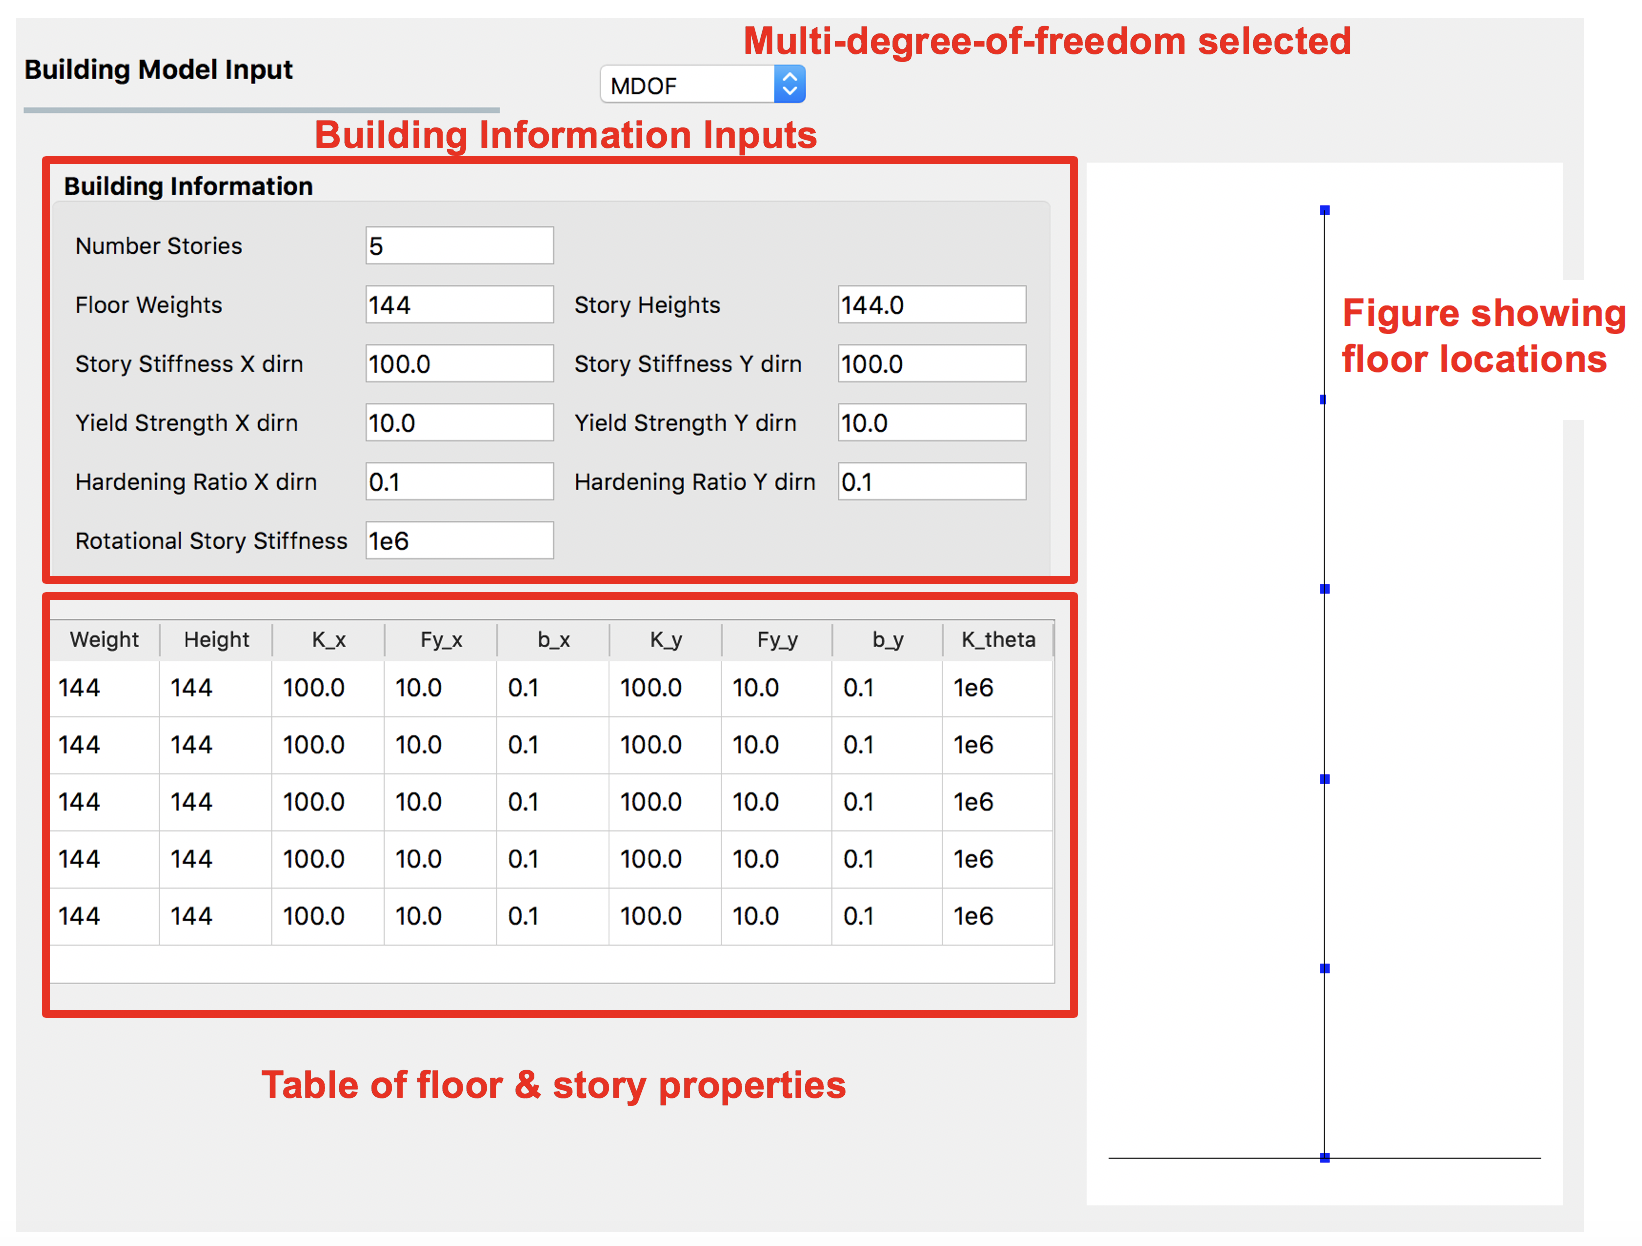
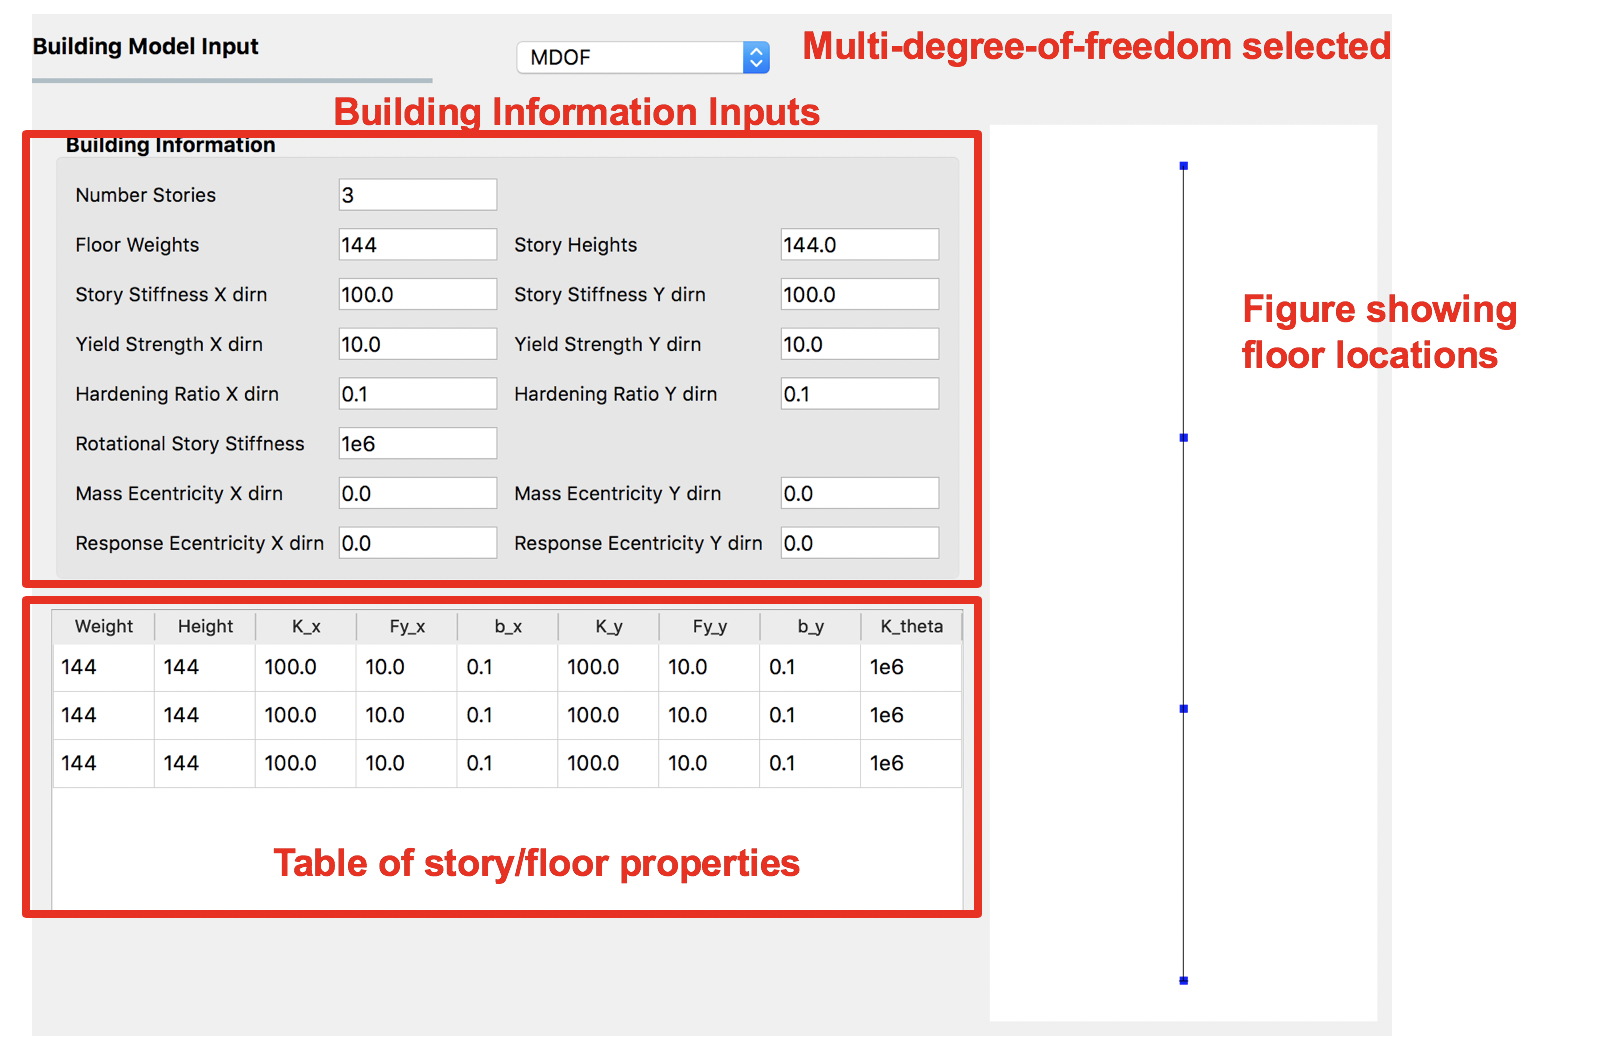
fmk updating figures for new UI, updating some wind event files, breaking up quoFEM into modeles used in other docs

diff --git a/Common/usage/uq_forwardPropogationMethods.tex b/Common/usage/uq_forwardPropogationMethods.tex
@@ -1,0 +1,76 @@
+In the forward propagation problem, the user selects the sampling 
+method to use from the dropdown menu \href{https://dakota.sandia.gov//sites/default/files/docs/6.9/html-ref/method-sampling.html}{sampling methods}. Currently there are five options available: 
+Monte Carlo Sampling (MCS),  Latin Hypercube Sampling (LHS), Importance Sampling (IS), and sampling based on surrogate models, including Gaussian Process Regression (GPR) and Polynomial Chaos Expansion (PCE). Depending on the option selected, the user must specifies the appropriate input parameters for each. For instance, for MCS, the number of samples specifies the number of simulations to be performed, and providing a random seed allows the user to reproduce the same set of samples from the random variables multiple times.
+
+\begin{figure}[!htbp]
+  \centering {
+    \includegraphics[width=1.0\textwidth]
+    {examples/fig_quofem/fw_mc.png} }
+  \caption{Monte Carlo Sampling input panel}
+  \label{fig:mcs}
+\end{figure}
+
+Figure \Cref{fig:mcs} shows the input panel corresponding to the Monte Carlo Sampling (MCS) setting. Two input parameters need to be specified, the number of samples to be executed, as well as the seed used in generating the random samples. 
+
+
+\begin{figure}[!htbp]
+  \centering {
+    \includegraphics[width=1.0\textwidth]
+    {examples/fig_quofem/fw_lhs.png} }
+  \caption{Latin Hypercube Sampling input panel}
+  \label{fig:lhs}
+\end{figure}
+
+Figure \Cref{fig:lhs} shows the input panel corresponding to the Latin Hypercube Sampling (LHS) scheme. Two input parameters also need to be specified, the number of samples to be executed, as well as the seed used in generating the LHS samples. 
+
+\begin{figure}[!htbp]
+  \centering {
+    \includegraphics[width=1.0\textwidth]
+    {examples/fig_quofem/fw_is.png} }
+  \caption{Importance Sampling input panel}
+  \label{fig:is}
+\end{figure}
+
+For rare event analysis, Figure \Cref{fig:is} shows the input panel for Importance Sampling (IS) scheme. Similar to MCS and LHS, the IS requires both the number of samples to be executed and the corresponding seed for generating such random samples. In addition, the Importance Sampling algorithm can performed via three different approaches, as specified by the third input method. The latter includes Basic Sampling, Adaptive Sampling, and Multimodal Adaptive Sampling. 
+
+
+For uncertainty propagation with surrogates, two popular surrogates are available, namely Gaussian Process Regression (GPR) and Polynomial Chaos Expansion (PCE). Figure \Cref{fig:gpr} shows the input panel for the GPR model, with input panels for training and sampling. 
+
+\begin{figure}[!htbp]
+  \centering {
+    \includegraphics[width=1.0\textwidth]
+    {examples/fig_quofem/fw_gp.png} }
+  \caption{GPR forward propagation input panel}
+  \label{fig:gpr}
+\end{figure}
+
+For uncertainty propagation with Gaussian Process Regression (GPR), Figure \Cref{fig:gpr} shows the input panel for the PCE model, with input panels for training and sampling as well. The first set of input parameters in the surrogate training data specify the dataset used for training the surrogate model, while the second set of input parameters in the surrogate sampling data relate to the dataset used for sampling the surrogate. Care must be taken in specifying the training dataset to results in an accurate response surface approximation. 
+
+\begin{figure}[!htbp]
+  \centering {
+    \includegraphics[width=1.0\textwidth]
+    {examples/fig_quofem/fw_pce.png} }
+  \caption{PCE forward propagation input panel}
+  \label{fig:pce}
+\end{figure}
+
+For uncertainty propagation with Polynomial Chaos Expansion (PCE), Figure \Cref{fig:pce} shows the input panel for the PCE model, with input panels for training and sampling as well, similar to the input GPR panel. The first set of input parameters in the surrogate training data specify the dataset used for training the surrogate model, while the second set of input parameters in the surrogate sampling data relate to the dataset used for sampling the surrogate. Extreme care must be taken in specifying the parameters of the training dataset to results in an accurate response surface approximation. 
+
+If you are not sure about the training parameters of the surrogates, please refrain from using the surrogates for forward propagation and use instead conventional sampling such as MCS and LHS as discussed above. 
+
+\subsection{Reliability Analysis}
+
+For reliability analysis, figure \Cref{fig:rel} shows the input panel for the reliability capabilities. Currently, both First-Order Reliability Methods (FORM) and Second-Order Reliability Methods (SORM) are supported. The user can specify the local or global solution in the Reliability Scheme input parameter. In addition, the user needs to specify the method for searching for the Most Probable Point (MPP); if not sure, do not use any MPP approximation. 
+
+For both first and second-order reliability analysis, the user needs to specify the either the response levels or the probability levels at which the CDF of the QoI needs to be queried. The user can specify multiple query points, separated by a space. 
+
+
+\begin{figure}[!htbp]
+  \centering {
+    \includegraphics[width=1.0\textwidth]
+    {examples/fig_quofem/rel_form.png} }
+  \caption{Reliability input panel}
+  \label{fig:rel}
+\end{figure}
+
+

diff --git a/Common/usage/structural_models.tex b/Common/usage/structural_models.tex
@@ -19,7 +19,7 @@ This panel is provided for users to quickly create simple shear models
 of a building. The panel, as shown in \Cref{fig:mdof} is divided
 into 3 frames:
 \begin{enumerate}
-\item The top left frame allows the user to specify the number of stories and properties that are constant for every floor and story in the building. The following properties are available: floor weight, story height, torsional stiffness, initial stiffness, yield strength, and hardening ratio for each direction in each story. Here, the one and two directions are orthogonal $x$ and $y$ axes in plan view.
+\item The top left frame allows the user to specify the number of stories and properties that are constant for every floor and story in the building. The following properties are available: floor weight, story height, torsional stiffness, initial stiffness, yield strength, and hardening ratio for each direction in each story. The user has the option of specifying values for eccentricty of mass in x and y directions, and eccentricities for the location of the response quantaties. Here, the one and two directions are orthogonal $x$ and $y$ axes in plan view.
 \item The lower left frame allows the user to override the structural parameters above for individual floors and stories.
 \item The frame on the right is a graphical widget showing the current building. When entering data into the lower left frame, the stories corresponding to the data being modified are highlighted in red.
 \end{enumerate}
@@ -48,15 +48,15 @@ for this option is shown in \Cref{fig:figure3}. Users need to provide three piec
   model. This script should build a model and perform any gravity
   analysis of the building that is required before the event is
   applied.
-\item Column Line of Nodes: A list of node numbers that define a column line of interest for which
+\item Response Nodes: A list of node numbers that define a column line of interest for which
   the responses will be determined. The column nodes should be in
   order from ground floor to roof. 
-  
   The EDP workflow application\softwareSwitch{PBE}{}{, described
   in \Cref{sec:edp},} uses this information to determine nodes at which
   displacement, acceleration, and story drifts are calculated.
 \item An entry for the dimension of the model (i.e., 2D or 3D). This
   information is used when \softwareSwitch{WE-UQ}{wind loads}{ground motions} are applied.
+\item entry for the number of degrees of freedom at each node in the model.
 \end{enumerate}
 
 \begin{figure}[!htbp]
@@ -66,6 +66,7 @@ for this option is shown in \Cref{fig:figure3}. Users need to provide three piec
   \caption{\texttt{OpenSees} Model}
   \label{fig:figure3}
 \end{figure}
+
 
 Random Variables: In \texttt{OpenSees} there is an option to set
 variables to have certain values using the \texttt{pset} command, e.g

diff --git a/Common/usage/windTunnelExperiment.tex b/Common/usage/windTunnelExperiment.tex
@@ -11,10 +11,43 @@ This application will take the wind tunnel data provided and scale it based on w
 \begin{enumerate} 
 \item The user to select the shape of the building, currently onlu Cuboid shapes are permitted.
 \item The Wind Speed.
-\item The file containing the experimental data.
+\item The file containing the experimental data. The file contains information about the dimensions of the building model in the wind tunnel, the wind speed (the meaning of wind speed dis totally dependent on what wind speed measurement was used in the test), time varying data for the pressure coeffiecients, information on frequency of these data points, and information on th elocations of pressure taps for which pressure coefficients are provided. An abbreviated example is as shown below.
 \end{enumerate}
 
-For this event, the wind speed can be a random variable.
+
+Random Variables: For this event, the wind speed can be a random variable.
+
+The format for the wind tunnel data file is presently a JSON file. Future versions will allow the input of Matlab .mat files. A valid file is as follows:
+
+\begin{verbatim}
+{
+ "meanWindSpeed":22.000000,
+ "shape":"Cuboid",
+ "depth":24.000000,
+ "height":12.000000,
+ "breadth":16.000000,
+ "frequency":600.000000,
+ "period": 15.000000,
+  "units":{
+     "length":"m",
+     "time":"sec"
+  },
+  "tapLocations": [
+       {"id":1,"xLoc":1.000000,"yLoc":15.000000,"face":5},
+       {"id":2,"xLoc":3.000000,"yLoc":15.000000,"face":5},
+       ......
+  ],
+ "pressureCoefficients": [
+       {"id": 1 , "data":[-1.083194,-1.372954, ....]},
+       {"id": 2 , "data":[-1.181435,-1.164351, ....]},
+       ......
+   ]
+}
+\end{verbatim}
+
+It should be noted that at present the only valid shape is a Cuboid. Other shapes for example representing low-rise buildings with different roof shapes will be available in future versons.
+
+For a cuboid the input file contains information about the wind tunnel models width, depth, height and wind speed. In addition for each of the 5 faces the user provides information on tap location for which pressure coefficents are given. The coordinate system for each face is x and ym and assumes the origin is at bottom left of an elevation of the building assuming user is looking at that face of the building, as shown in figure.
 
 
 

diff --git a/Common/usage/uq.tex b/Common/usage/uq.tex
@@ -17,27 +17,7 @@ in \Cref{fig:uq_panel}, into two frames:
 \end{figure}
 
 \subsection{Sampling Methods}
-In the \href{https://dakota.sandia.gov//sites/default/files/docs/6.9/html-ref/method-sampling.html}{sampling methods} the user selects the sampling 
-method to use from the dropdown menu. Currently there are two options available: 
-Monte Carlo and Latin Hypercube Sampling (LHS). Depending on the option selected, the user must specifies the number of samples and the seed. The number of samples specifies the number of simulations to be performed. Providing a random seed allows the user to reproduce the same set of samples from the random variables multiple times.
+\input{usage/uq_forwardPropogationMethods}
 
 \subsection{Random Variables}
-The Random Variable panel allows the user to characterize the random
-variables. Each random variable has a name and a distribution. The
-distribution is selected from the drop-down menu. By changing the
-distribution type, the parameters required to define the distribution
-change. The following distributions are available (clicking on a link will take you to the Dakota manual that provides theoretical background and explains the requested parameters for each distribution):
-\begin{enumerate}
-\item \href{https://dakota.sandia.gov//sites/default/files/docs/6.9/html-ref/variables-normal_uncertain.html}{Normal}
-\item \href{https://dakota.sandia.gov//sites/default/files/docs/6.9/html-ref/variables-lognormal_uncertain.html}{Lognormal}
-\item \href{https://dakota.sandia.gov//sites/default/files/docs/6.9/html-ref/variables-beta_uncertain.html}{Beta}
-\item \href{https://dakota.sandia.gov//sites/default/files/docs/6.9/html-ref/variables-uniform_uncertain.html}{Uniform}
-\item \href{https://dakota.sandia.gov//sites/default/files/docs/6.9/html-ref/variables-weibull_uncertain.html}{Weibull}
-\item \href{https://dakota.sandia.gov//sites/default/files/docs/6.9/html-ref/variables-gumbel_uncertain.html}{Gumbel}
-\end{enumerate} 
-
-As with other panels, the random variables can be added or
-removed. Care must be taken by the user in ensuring that if the user
-removes random variables from this panel that they also remove them
-from the other input widgets. Failing to do so may result in the
-program failing to complete.
+\input{usage/rv_quofem}

diff --git a/Common/installation/installation_quoFEM.tex b/Common/installation/installation_quoFEM.tex
@@ -338,6 +338,18 @@ installation directory.
 \end{itemize}
 \end{enumerate}
 
+NOTE: Apple, in the latest release of their operating system, MacOS 10.16 Catalina, has changed the default working of Gatekeeper.
+Gatekeeper, first introduced in OS X Mountain Lion, is a Mac security feature that helps protect your Mac from Malware and other malicious software. Gatekeeper checks to make sure the application is safe to run by checking it against the list of apps that Apple has vetted and approved for the Apple Mac Store and/or approved by Apple even if not offered through the app store. In previous versions of MacOS, Gatekeeper had three security level options: App Store, App Store and Identified Developers, and Anywhere. Anywhere has been removed and this will cause problems with Dakota. As a consequence, it is necessary to follow the following when you update the MacOS or install Dakota for the first time on machine with an updated MacOS. From the terminal app, with the above .bash\_profile settings set, you need to type the following in the terminal window:
+
+\begin{verbatim}
+sudo spctl --master-disable
+dakota
+sudo spctl --master-enable
+\end{verbatim}
+
+This will temporarily disable gatekeeper (basically setting Gatekeeper options to Anywhere), allow the Dakota application and it's .dylib files to be registered as safe, and then turn Gatekeeper options back to default.
+
+
 
 \subsection{Test the Install of the Local Applications}
 %===============================================================================

diff --git a/Common/installation/installation.tex b/Common/installation/installation.tex
@@ -317,6 +317,18 @@ installation directory.
 \end{itemize}
 \end{enumerate}
 
+NOTE: Apple, in the latest release of their operating system, MacOS 10.16 Catalina, has changed the default working of Gatekeeper.
+Gatekeeper, first introduced in OS X Mountain Lion, is a Mac security feature that helps protect your Mac from Malware and other malicious software. Gatekeeper checks to make sure the application is safe to run by checking it against the list of apps that Apple has vetted and approved for the Apple Mac Store and/or approved by Apple even if not offered through the app store. In previous versions of MacOS, Gatekeeper had three security level options: App Store, App Store and Identified Developers, and Anywhere. Anywhere has been removed and this will cause problems with Dakota. As a consequence, it is necessary to follow the following when you update the MacOS or install Dakota for the first time on machine with an updated MacOS. From the terminal app, with the above .bash\_profile settings set, you need to type the following in the terminal window:
+
+\begin{verbatim}
+sudo spctl --master-disable
+dakota
+sudo spctl --master-enable
+\end{verbatim}
+
+This will temporarily disable gatekeeper (basically setting Gatekeeper options to Anywhere), allow the Dakota application and it's .dylib files to be registered as safe, and then turn Gatekeeper options back to default.
+
+
 \subsection{Install  Perl}
 %===============================================================================
 

diff --git a/Common/usage/rv_quofem.tex b/Common/usage/rv_quofem.tex
@@ -1,12 +1,14 @@
 The RV panel allows the user to specify the probabilistic distribution for the random problem at hand. The following probabilistic distributions for the random variables are currently supported: 
+
 \begin{enumerate}
-\item Gaussian
-\item Lognormal
-\item Beta
-\item Uniform
-\item Weibull
-\item Gumbell
-\end{enumerate}
+\item \href{https://dakota.sandia.gov//sites/default/files/docs/6.9/html-ref/variables-normal_uncertain.html}{Gaussian}
+\item \href{https://dakota.sandia.gov//sites/default/files/docs/6.9/html-ref/variables-lognormal_uncertain.html}{Lognormal}
+\item \href{https://dakota.sandia.gov//sites/default/files/docs/6.9/html-ref/variables-beta_uncertain.html}{Beta}
+\item \href{https://dakota.sandia.gov//sites/default/files/docs/6.9/html-ref/variables-uniform_uncertain.html}{Uniform}
+\item \href{https://dakota.sandia.gov//sites/default/files/docs/6.9/html-ref/variables-weibull_uncertain.html}{Weibull}
+\item \href{https://dakota.sandia.gov//sites/default/files/docs/6.9/html-ref/variables-gumbel_uncertain.html}{Gumbel}
+\end{enumerate} 
+
 
 Each distribution has different parameters, and the user needs to select accordingly the parameters for the distribution selected for each random variable. Once the user selects the distribution of the random variable, the
 corresponding input boxes for the parameters will show. 

diff --git a/Common/usage/lowRiseTPU.tex b/Common/usage/lowRiseTPU.tex
@@ -22,4 +22,5 @@ of these tests to use:
 \item Mean Wind Speed: The wind speed provided is used in determing the velocity factor and the applied loads. 
 \end{enumerate}
 
-For this event, the wind speed can be a random variable.
+Random Variables: For this event, the wind speed can be a random variable.
+

diff --git a/Common/usage/ui_quofem.tex b/Common/usage/ui_quofem.tex
@@ -7,7 +7,7 @@ separate areas:
 \begin{figure}[!htbp]
   \centering {
     \includegraphics[width=0.95\textwidth]
-    {examples/fig_quofem/fw.png} }
+    {examples/fig_quofem/quoFEM_UI.png} }
   \caption{The User Interface (UI)}
   \label{fig:generic_ui}
 \end{figure}

diff --git a/Common/usage/wind_events.tex b/Common/usage/wind_events.tex
@@ -31,7 +31,7 @@ are available in the drop-down menu:
 \input{usage/dedm_hrp}
 
 \subsection{Low Rise TPU}
-\label{subsec:lowriseTPU}
+\label{subsec:lowRiseTPU}
 \input{usage/lowRiseTPU}
 
 \subsection{Wind Tunnel Experiment}
